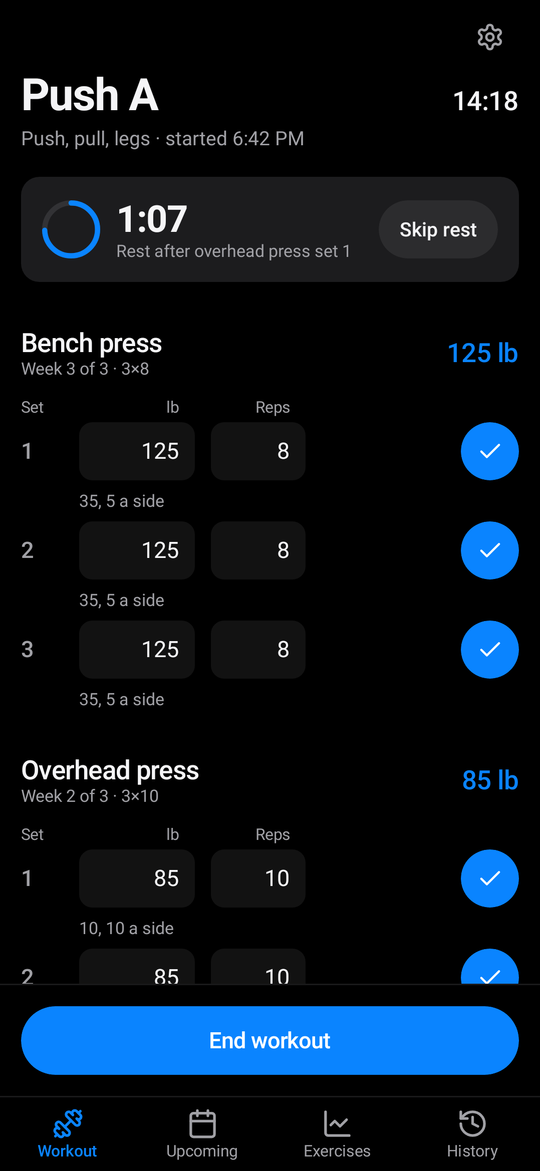
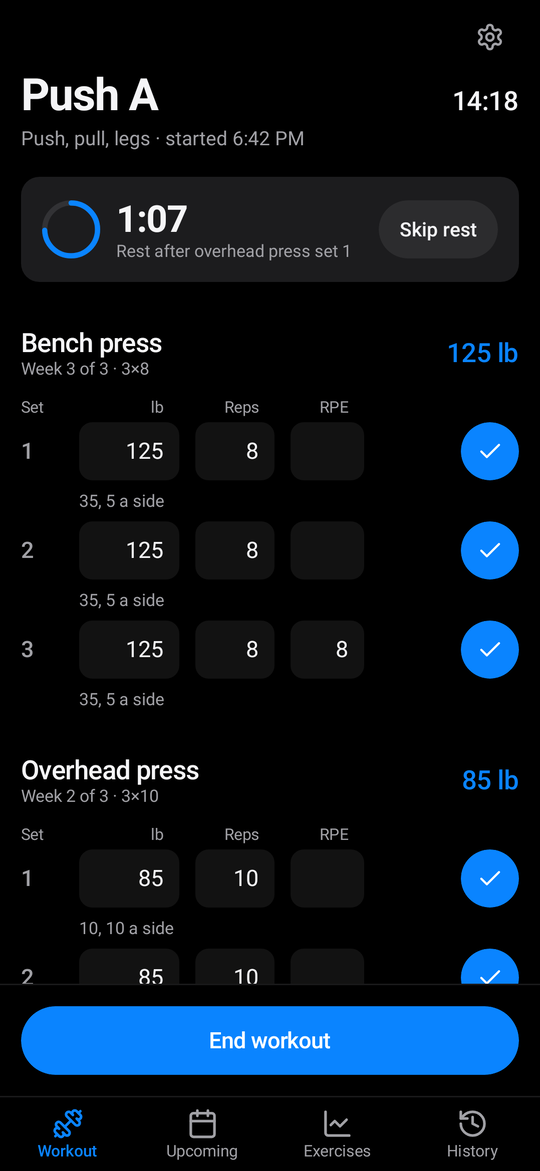
Log an optional RPE per set and export it in the synced log (#4)
The workout screen gets an RPE column beside reps. It starts empty and
accepts 1 to 10 in half steps; a logged set's RPE can be added or changed
like its weight and reps. The set line gains an optional rpe number
(docs/log-format.md), session history shows it as "@ 8.5", and the
desktop app parses it (0 when absent). RPE never affects progression.

diff --git a/app/src/main/java/dev/gzclp/tracker/ui/Screens.kt b/app/src/main/java/dev/gzclp/tracker/ui/Screens.kt
@@ -171,6 +171,7 @@ fun NumberField(
     color: Color = LocalPalette.current.fg,
     onCommit: () -> Unit = {},
     label: String? = null,
+    keyboardType: KeyboardType = KeyboardType.Number,
 ) {
     val p = LocalPalette.current
     val focus = LocalFocusManager.current
@@ -184,7 +185,7 @@ fun NumberField(
                 .then(if (label != null) Modifier.semantics { contentDescription = label } else Modifier),
             textStyle = Type.body.tabular().copy(color = color, textAlign = TextAlign.End),
             singleLine = true, cursorBrush = SolidColor(p.accent),
-            keyboardOptions = KeyboardOptions(keyboardType = KeyboardType.Number, imeAction = if (last) ImeAction.Done else ImeAction.Next),
+            keyboardOptions = KeyboardOptions(keyboardType = keyboardType, imeAction = if (last) ImeAction.Done else ImeAction.Next),
             keyboardActions = KeyboardActions(onDone = { focus.clearFocus() }),
         )
     }
@@ -234,7 +235,7 @@ fun WorkoutScreen(
     state: AppState,
     now: OffsetDateTime,
     rest: RestUi?,
-    onLog: (Exercise, Int, Int, Int) -> Unit,
+    onLog: (Exercise, Int, Int, Int, Double?) -> Unit,
     onClear: (Exercise, Int) -> Unit,
     onEditWeight: (Exercise) -> Unit,
     onSwap: (Exercise) -> Unit,
@@ -301,7 +302,7 @@ private fun ExerciseBlock(
     state: AppState,
     ex: Exercise,
     next: SetKey?,
-    onLog: (Exercise, Int, Int, Int) -> Unit,
+    onLog: (Exercise, Int, Int, Int, Double?) -> Unit,
     onClear: (Exercise, Int) -> Unit,
     onEditWeight: (Exercise) -> Unit,
     onSwap: (Exercise) -> Unit,
@@ -328,6 +329,7 @@ private fun ExerciseBlock(
         // Header labels end where the field digits end, inside the fields' horizontal padding.
         Txt("lb", Type.caption, Modifier.width(WEIGHT_COL).padding(end = Space.md), p.fg2, align = TextAlign.End)
         Txt("Reps", Type.caption, Modifier.width(REPS_COL).padding(end = Space.md), p.fg2, align = TextAlign.End)
+        Txt("RPE", Type.caption, Modifier.width(RPE_COL).padding(end = Space.md), p.fg2, align = TextAlign.End)
     }
     Column(verticalArrangement = Arrangement.spacedBy(Space.sm)) {
         val plates = LocalPlates.current
@@ -346,7 +348,7 @@ private fun ExerciseBlock(
                 current = next == key,
                 exName = ex.name,
                 plates = plates.takeIf { ex.id in Catalog.barbell },
-                onLog = { w, r -> onLog(ex, i, w, r) },
+                onLog = { w, r, rpe -> onLog(ex, i, w, r, rpe) },
                 onClear = { onClear(ex, i) },
             )
         }
@@ -354,10 +356,15 @@ private fun ExerciseBlock(
 }
 
 private val SET_COL = 32.dp
-private val WEIGHT_COL = 88.dp
-private val REPS_COL = 72.dp
+// Sized so the row fits a 360dp-wide phone with the RPE column.
+private val WEIGHT_COL = 76.dp
+private val REPS_COL = 60.dp
+private val RPE_COL = 56.dp
 
-/** One set: its own weight and reps, prefilled from the prescription, and a check that logs or clears it. */
+/** What the RPE field accepts while typing: empty, 1 to 9 with an optional .5, or 10. */
+private val RPE_INPUT = Regex("(10|[1-9](\\.5?)?)?")
+
+/** One set: its own weight and reps, prefilled from the prescription, an optional RPE, and a check that logs or clears it. */
 @Composable
 fun SetRow(
     index: Int,
@@ -368,7 +375,7 @@ fun SetRow(
     current: Boolean,
     exName: String,
     plates: Plates?,
-    onLog: (weight: Int, reps: Int) -> Unit,
+    onLog: (weight: Int, reps: Int, rpe: Double?) -> Unit,
     onClear: () -> Unit,
 ) {
     val p = LocalPalette.current
@@ -376,8 +383,9 @@ fun SetRow(
     var w by remember(logged?.weight, defaultWeight) { mutableStateOf((logged?.weight ?: defaultWeight).toString()) }
     var r by remember(logged?.actualReps) { mutableStateOf(logged?.actualReps?.toString() ?: if (amrap) "" else targetReps.toString()) }
     fun weight() = w.toIntOrNull() ?: logged?.weight ?: defaultWeight
+    var e by remember(logged?.rpe) { mutableStateOf(logged?.rpe?.let(Fmt::rpe) ?: "") }
     fun reps() = r.toIntOrNull() ?: logged?.actualReps ?: targetReps
-    val commit = { if (logged != null) onLog(weight(), reps()) }
+    val commit = { if (logged != null) onLog(weight(), reps(), e.toDoubleOrNull()) }
     val short = logged != null && logged.actualReps < targetReps
     val name = "$exName set $index"
     Row(Modifier.fillMaxWidth(), verticalAlignment = Alignment.CenterVertically, horizontalArrangement = Arrangement.spacedBy(Space.md)) {
@@ -387,12 +395,16 @@ fun SetRow(
             r, { r = it.filter(Char::isDigit).take(3) }, width = REPS_COL, placeholder = if (amrap) "$targetReps+" else "$targetReps",
             color = if (short) p.red else p.fg, onCommit = commit, label = "$name reps",
         )
+        NumberField(
+            e, { if (RPE_INPUT.matches(it)) e = it }, width = RPE_COL, placeholder = "",
+            onCommit = commit, label = "$name RPE", keyboardType = KeyboardType.Decimal,
+        )
         Spacer(Modifier.weight(1f))
         val hit = logged != null && !short
         Pressable(
             {
                 focus.clearFocus()
-                if (logged != null) onClear() else onLog(weight(), reps())
+                if (logged != null) onClear() else onLog(weight(), reps(), e.toDoubleOrNull())
             },
             Modifier.size(44.dp), CircleShape,
             fill = when {

diff --git a/app/src/test/java/dev/gzclp/tracker/ui/ScreenShots.kt b/app/src/test/java/dev/gzclp/tracker/ui/ScreenShots.kt
@@ -59,7 +59,9 @@ class ScreenShots {
             }
             val w = (ex.weight ?: 0) + if (k == 7 && i == 3 && ex.tier == Tier.CYCLE) 5 else 0
             t = t.plusSeconds(rest.getValue(ex.tier) + 25L + (k * 13 + i * 7) % 40)
-            dispatch(t) { Commands.logSet(it, ex, i, reps, w, t, rest) }
+            // RPE on last sets only, like a lifter who rates just the hard ones.
+            val rpe = if (i == ex.scheme.sets) 8.0 + (k + i) % 4 * 0.5 else null
+            dispatch(t) { Commands.logSet(it, ex, i, reps, w, t, rest, rpe) }
         }
         if (end) t.plusSeconds(90).let { e -> dispatch(e) { Commands.end(it, e, null) } }
     }
@@ -111,10 +113,10 @@ class ScreenShots {
             val p = LaptopTheme.parse(javaClass.getResource("/themes/$name.toml")!!.readText())!!
             val file = p.copy(id = "laptop-$name")
             shot(file, "03-workout-rest") {
-                TabFrame(Tab.Workout, {}) { WorkoutScreen(live, now, RestUi(67, 90, restLabel(ex[1], 1)), { _, _, _, _ -> }, { _, _ -> }, {}, {}, {}, {}, {}) }
+                TabFrame(Tab.Workout, {}) { WorkoutScreen(live, now, RestUi(67, 90, restLabel(ex[1], 1)), { _, _, _, _, _ -> }, { _, _ -> }, {}, {}, {}, {}, {}) }
             }
             shot(file, "14-workout-full", tall = true) {
-                TabFrame(Tab.Workout, {}) { WorkoutScreen(live, now, null, { _, _, _, _ -> }, { _, _ -> }, {}, {}, {}, {}, {}) }
+                TabFrame(Tab.Workout, {}) { WorkoutScreen(live, now, null, { _, _, _, _, _ -> }, { _, _ -> }, {}, {}, {}, {}, {}) }
             }
             for (tall in listOf(false, true)) shot(file, if (tall) "12-settings-full" else "12-settings", tall) {
                 SettingsScreen(
@@ -141,11 +143,11 @@ class ScreenShots {
             }
             shot(p, "02-next-workout") { TabFrame(Tab.Workout, {}) { HomeScreen(idle, {}, {}, {}) } }
             shot(p, "03-workout-rest") {
-                TabFrame(Tab.Workout, {}) { WorkoutScreen(live, now, RestUi(67, 90, restLabel(ex[1], 1)), { _, _, _, _ -> }, { _, _ -> }, {}, {}, {}, {}, {}) }
+                TabFrame(Tab.Workout, {}) { WorkoutScreen(live, now, RestUi(67, 90, restLabel(ex[1], 1)), { _, _, _, _, _ -> }, { _, _ -> }, {}, {}, {}, {}, {}) }
             }
             shot(p, "04-gzclp-next") { TabFrame(Tab.Workout, {}) { HomeScreen(gz, {}, {}, {}) } }
             shot(p, "04-gzclp-warmups", tall = true) {
-                TabFrame(Tab.Workout, {}) { WorkoutScreen(gzLive, gzNow, null, { _, _, _, _ -> }, { _, _ -> }, {}, {}, {}, {}, {}) }
+                TabFrame(Tab.Workout, {}) { WorkoutScreen(gzLive, gzNow, null, { _, _, _, _, _ -> }, { _, _ -> }, {}, {}, {}, {}, {}) }
             }
             shot(p, "05-starting-weight-sheet") {
                 Box(Modifier.fillMaxSize()) {
@@ -192,20 +194,20 @@ class ScreenShots {
             }
             shot(p, "13-days") { DaysScreen(idle, {}, {}, { _, _ -> }) }
             shot(p, "14-workout-full", tall = true) {
-                TabFrame(Tab.Workout, {}) { WorkoutScreen(live, now, null, { _, _, _, _ -> }, { _, _ -> }, {}, {}, {}, {}, {}) }
+                TabFrame(Tab.Workout, {}) { WorkoutScreen(live, now, null, { _, _, _, _, _ -> }, { _, _ -> }, {}, {}, {}, {}, {}) }
             }
             shot(p, "17-workout-swapped", tall = true) {
-                TabFrame(Tab.Workout, {}) { WorkoutScreen(swapped, now, null, { _, _, _, _ -> }, { _, _ -> }, {}, {}, {}, {}, {}) }
+                TabFrame(Tab.Workout, {}) { WorkoutScreen(swapped, now, null, { _, _, _, _, _ -> }, { _, _ -> }, {}, {}, {}, {}, {}) }
             }
             shot(p, "17-swap-sheet") {
                 Box(Modifier.fillMaxSize()) {
-                    TabFrame(Tab.Workout, {}) { WorkoutScreen(swapped, now, null, { _, _, _, _ -> }, { _, _ -> }, {}, {}, {}, {}, {}) }
+                    TabFrame(Tab.Workout, {}) { WorkoutScreen(swapped, now, null, { _, _, _, _, _ -> }, { _, _ -> }, {}, {}, {}, {}, {}) }
                     Sheet(true, {}) { SheetContent(SheetState.Swap(swapped.sessionExercises()[2], "fly"), swapped, {}, {}, {}) }
                 }
             }
             shot(p, "17-swap-back-sheet") {
                 Box(Modifier.fillMaxSize()) {
-                    TabFrame(Tab.Workout, {}) { WorkoutScreen(swapped, now, null, { _, _, _, _ -> }, { _, _ -> }, {}, {}, {}, {}, {}) }
+                    TabFrame(Tab.Workout, {}) { WorkoutScreen(swapped, now, null, { _, _, _, _, _ -> }, { _, _ -> }, {}, {}, {}, {}, {}) }
                     Sheet(true, {}) { SheetContent(SheetState.Swap(swapped.sessionExercises()[3], ""), swapped, {}, {}, {}) }
                 }
             }

diff --git a/app/src/test/java/dev/gzclp/tracker/log/LogTest.kt b/app/src/test/java/dev/gzclp/tracker/log/LogTest.kt
@@ -61,6 +61,7 @@ class LogTest {
             ProgressionEvent("squat", "cycle", "cycle_up", 180, 165, "3x8", "3x12", "s1", cycleWeek = 1, cycleBase = 165),
             SessionStart("s1", "gzclp", "A1"),
             SetLogged("s1", "squat", "t1", "5x3+", 5, 3, 7, 225, 230, true, 182, 180),
+            SetLogged("s1", "squat", "t1", "5x3+", 4, 3, 3, 225, 225, false, 150, 180, 8.5),
             SetCleared("s1", "squat", "t1", 5),
             ExerciseSwap("s1", "squat", "t1", "leg_press"),
             ExerciseSwap("s1", "squat", "t1"),
@@ -82,6 +83,8 @@ class LogTest {
         )
         val first = LogCodec.encode(Entry(1, t0, SetLogged("s1", "squat", "t1", "5x3+", 1, 3, 3, 225, 225, false)))
         assertTrue("first set omits rest fields", "rest_sec" !in first)
+        assertTrue("a set without RPE omits it", "rpe" !in first)
+        assertTrue(LogCodec.encode(Entry(2, t0, SetLogged("s1", "squat", "t1", "5x3+", 2, 3, 3, 225, 225, false, rpe = 9.0))).endsWith(",\"rpe\":9.0}"))
     }
 
     @Test fun unknownTypesAndOtherVersionsAreSkipped() {
@@ -175,6 +178,28 @@ class LogTest {
         val logged = s.state.value.active!!.sets.getValue(SetKey("bench", Tier.CYCLE, 1)).event
         assertEquals(listOf(105, 115), listOf(logged.targetWeight, logged.weight))
         assertTrue("re-logging the same values writes nothing", Commands.logSet(s.state.value, bench, 1, 12, 115, t0.plusSeconds(9), rest).isEmpty())
+    }
+
+    @Test fun rpeIsOptionalRoundedToAHalfAndLeavesProgressionAlone() {
+        val plain = store(File(tmp.root, "a.jsonl"))
+        val rated = store(File(tmp.root, "b.jsonl"))
+        for (s in listOf(plain, rated)) {
+            s.fillWeights()
+            s.dispatch(t0) { Commands.start(it, t0) }
+        }
+        val ex = rated.state.value.exercises(gzclp.days[0])[0]
+        val rpes = listOf(7.0, 8.4, 0.0, 11.0, null)
+        for (i in 1..5) {
+            plain.dispatch(t0) { Commands.logSet(it, ex, i, 3, 190, t0, rest) }
+            rated.dispatch(t0) { Commands.logSet(it, ex, i, 3, 190, t0, rest, rpes[i - 1]) }
+        }
+        val sets = rated.state.value.active!!.sets
+        assertEquals(listOf(7.0, 8.5, null, null, null), (1..5).map { sets.getValue(SetKey("squat", Tier.T1, it)).event.rpe })
+        rated.dispatch(t0) { Commands.logSet(it, ex, 1, 3, 190, t0, rest, 9.5) }
+        assertEquals("a correction can add or change RPE", 9.5, rated.state.value.active!!.sets.getValue(SetKey("squat", Tier.T1, 1)).event.rpe)
+        for (s in listOf(plain, rated)) s.dispatch(t0) { Commands.end(it, t0.plusMinutes(30), null) }
+        assertEquals(plain.state.value.gz, rated.state.value.gz)
+        assertEquals(plain.state.value.cycle, rated.state.value.cycle)
     }
 
     @Test fun upcomingProjectsTheRotationAssumingEveryTargetIsHit() {

diff --git a/app/src/main/java/dev/gzclp/tracker/log/Commands.kt b/app/src/main/java/dev/gzclp/tracker/log/Commands.kt
@@ -59,8 +59,8 @@ object Commands {
         if (state.active != null || !state.started || missingWeight(state) != null) emptyList()
         else listOf(SessionStart("s" + now.toEpochSecond(), state.programId, state.nextDay.id))
 
-    /** Logs a set, or corrects one already logged (keeping its rest fields). */
-    fun logSet(state: AppState, ex: Exercise, setIndex: Int, reps: Int, weight: Int, now: OffsetDateTime, restTargets: Map<Tier, Int>): List<Event> {
+    /** Logs a set, or corrects one already logged (keeping its rest fields). [rpe] outside 1 to 10 is dropped, others round to a half. */
+    fun logSet(state: AppState, ex: Exercise, setIndex: Int, reps: Int, weight: Int, now: OffsetDateTime, restTargets: Map<Tier, Int>, rpe: Double? = null): List<Event> {
         val a = state.active ?: return emptyList()
         val key = SetKey(ex.id, ex.tier, setIndex)
         val existing = a.sets[key]?.event
@@ -73,6 +73,7 @@ object Commands {
             amrap = scheme.amrap && setIndex == scheme.sets,
             restSec = if (existing != null) existing.restSec else prev?.let { Duration.between(it.ts, now).seconds.toInt() },
             restTargetSec = if (existing != null) existing.restTargetSec else prev?.let { restTargets[Tier.of(it.event.tier)] },
+            rpe = rpe?.let { Math.round(it * 2) / 2.0 }?.takeIf { it in 1.0..10.0 },
         )
         return if (event == existing) emptyList() else listOf(event)
     }

diff --git a/app/src/main/java/dev/gzclp/tracker/MainActivity.kt b/app/src/main/java/dev/gzclp/tracker/MainActivity.kt
@@ -225,9 +225,9 @@ private fun App(model: AppModel) {
                             onEditWeight = { open(SheetState.Weight(it, it.weight ?: 45)) },
                         ) else WorkoutScreen(
                             state, java.time.Instant.ofEpochMilli(nowMillis).atZone(java.time.ZoneId.systemDefault()).toOffsetDateTime(), model.rest(nowMillis),
-                            onLog = { ex, i, w, r ->
+                            onLog = { ex, i, w, r, rpe ->
                                 val wasLogged = state.active?.sets?.containsKey(SetKey(ex.id, ex.tier, i)) == true
-                                model.dispatch { Commands.logSet(it, ex, i, r, w, model.now(), model.restTargets) }
+                                model.dispatch { Commands.logSet(it, ex, i, r, w, model.now(), model.restTargets, rpe) }
                                 if (!wasLogged) model.startRest(ex, i)
                             },
                             onClear = { ex, i -> model.dispatch { Commands.clearSet(it, ex, i) } },

diff --git a/app/src/main/java/dev/gzclp/tracker/ui/Format.kt b/app/src/main/java/dev/gzclp/tracker/ui/Format.kt
@@ -13,6 +13,8 @@ object Fmt {
     /** Body weight, always one decimal: 182.4 lb, 181.0 lb. */
     fun lb(w: Double) = "${tenths(w)} lb"
     fun tenths(w: Double) = "%.1f".format(Locale.US, w)
+    /** RPE without a trailing .0: 8, 8.5. */
+    fun rpe(r: Double) = if (r % 1 == 0.0) "${r.toInt()}" else "$r"
     fun ratio(r: Double) = "%.2f×".format(Locale.US, r)
     /** 7:00 AM from minutes after midnight. */
     fun clockTime(minutes: Int): String = time.format(java.time.LocalTime.of(minutes / 60, minutes % 60))

diff --git a/app/src/main/java/dev/gzclp/tracker/ui/History.kt b/app/src/main/java/dev/gzclp/tracker/ui/History.kt
@@ -108,6 +108,7 @@ fun SetList(sets: List<SetLogged>) {
                 Txt("Set ${set.setIndex}" + if (set.amrap) " (AMRAP)" else "", Type.body, Modifier.weight(1f), maxLines = 1)
                 Txt(Fmt.lb(set.weight) + " × ", Type.body.tabular(), color = p.fg2)
                 Txt("${set.actualReps}", Type.body.tabular(), color = if (set.actualReps < set.targetReps) p.red else p.fg)
+                set.rpe?.let { Txt(" @ ${Fmt.rpe(it)}", Type.body.tabular(), color = p.fg2) }
             }
         }
     }

diff --git a/app/src/main/java/dev/gzclp/tracker/log/Events.kt b/app/src/main/java/dev/gzclp/tracker/log/Events.kt
@@ -65,6 +65,8 @@ data class SetLogged(
     val amrap: Boolean,
     val restSec: Int? = null,
     val restTargetSec: Int? = null,
+    /** Rate of perceived exertion, 1 to 10 in half steps; null when not given. Never affects progression. */
+    val rpe: Double? = null,
 ) : Event
 
 /** In [sessionId], the slot ([exercise], [tier]) is done as [substitute]; a null [substitute] puts the original back. */

diff --git a/desktop/src/log.cpp b/desktop/src/log.cpp
@@ -69,6 +69,7 @@ Log parseLog(const QByteArray &bytes) {
             s.amrap = o["amrap"].toBool();
             s.rest = o["rest_sec"].toInt(-1);
             s.restTarget = o["rest_target_sec"].toInt(-1);
+            s.rpe = o["rpe"].toDouble();
             // A correction replaces the values but the set keeps its place in the session.
             const auto previous = sets.constFind(key);
             s.ts = previous != sets.cend() ? previous->ts : parseTime(o["ts"]);

diff --git a/desktop/tests/gzclp-desk_tests.cpp b/desktop/tests/gzclp-desk_tests.cpp
@@ -39,6 +39,8 @@ private slots:
     void docExampleResolves() {
         const Log log = parseLog(docExample());
         QCOMPARE(log.sets.size(), 3);
+        QCOMPARE(log.sets[0].rpe, 0.0);  // absent
+        QCOMPARE(log.sets[1].rpe, 8.5);
         QCOMPARE(log.name("squat"), QString("Squat"));
         QCOMPARE(log.name("leg_curl"), QString("Leg curl"));
         QCOMPARE(log.bodyWeight.size(), 1);  // the Nov 20 weigh-in was cleared

diff --git a/desktop/src/log.h b/desktop/src/log.h
@@ -15,6 +15,7 @@ struct LoggedSet {
     int index = 0, reps = 0, weight = 0;
     bool amrap = false;
     int rest = -1, restTarget = -1;  // -1 when absent (first set of a session)
+    double rpe = 0;                  // 0 when absent
     QDateTime ts;                    // when the set was first logged
     qint64 order = 0;                // seq of its first line, for the previous-set lookup
 };

diff --git a/docs/log-format.md b/docs/log-format.md
@@ -9,6 +9,8 @@ The `body_weight` and `body_weight_clear` types were added within version 2. A r
 
 The `exercise_swap` type was added within version 2 the same way. A reader that skips it still attributes every set to the exercise actually done, because `set` lines always name that exercise.
 
+The optional `rpe` field on `set` was added within version 2. A reader that predates it ignores it as an unknown field.
+
 ## File
 
 - Name: `gzclp-log.jsonl`, in the folder picked in the app's Settings (shared with Syncthing).
@@ -170,12 +172,13 @@ One logged set. Written when the user taps the set done, and again when they cor
 | `amrap` | bool | True on the last set of a `+` stage. |
 | `rest_sec` | int, optional | Seconds since the previous set logged in this session. Absent on the first set. |
 | `rest_target_sec` | int, optional | The rest the timer gave after the previous set (by that set's tier; defaults 180 T1, 120 T2, 60 T3, 90 cycle, user-editable). Absent on the first set. |
+| `rpe` | number, optional | Rate of perceived exertion the user gave the set, 1 to 10 in half steps, always written with one decimal: `8.0`, `8.5`. Absent when not given. It never affects progression. |
 
 The line's `ts` is when the set was logged.
 
 Only working sets are logged. The warm-up sets the app shows before GZCLP T1 lifts are never written to the log, so every `set` line counts toward progression and the metrics below.
 
-**Set identity.** A set is identified by (`session_id`, `exercise`, `tier`, `set_index`). If the user corrects a set, a new `set` line with the same identity is written. The newest one wins. A correction keeps the original `rest_sec` and `rest_target_sec`.
+**Set identity.** A set is identified by (`session_id`, `exercise`, `tier`, `set_index`). If the user corrects a set, a new `set` line with the same identity is written. The newest one wins. A correction keeps the original `rest_sec` and `rest_target_sec`. A correction can add, change, or remove `rpe`; the newest line's value (or its absence) is the set's RPE.
 
 ### `exercise_swap`
 
@@ -269,7 +272,7 @@ First resolve sets: newest `set` per identity wins, drop cleared sets, drop sets
 {"v":2,"seq":37,"ts":"2026-11-02T18:40:00-08:00","type":"progression","exercise":"lat_pulldown","tier":"t3","kind":"initial","to_weight":100,"to_stage":"3x15+"}
 {"v":2,"seq":38,"ts":"2026-11-02T18:42:05-08:00","type":"session_start","session_id":"s1794191725","program":"gzclp","day":"A1"}
 {"v":2,"seq":39,"ts":"2026-11-02T18:45:10-08:00","type":"set","session_id":"s1794191725","exercise":"squat","tier":"t1","stage":"5x3+","set_index":1,"target_reps":3,"actual_reps":3,"target_weight":210,"weight":210,"amrap":false}
-{"v":2,"seq":40,"ts":"2026-11-02T18:48:20-08:00","type":"set","session_id":"s1794191725","exercise":"squat","tier":"t1","stage":"5x3+","set_index":2,"target_reps":3,"actual_reps":3,"target_weight":210,"weight":215,"amrap":false,"rest_sec":190,"rest_target_sec":180}
+{"v":2,"seq":40,"ts":"2026-11-02T18:48:20-08:00","type":"set","session_id":"s1794191725","exercise":"squat","tier":"t1","stage":"5x3+","set_index":2,"target_reps":3,"actual_reps":3,"target_weight":210,"weight":215,"amrap":false,"rest_sec":190,"rest_target_sec":180,"rpe":8.5}
 {"v":2,"seq":41,"ts":"2026-11-02T19:00:00-08:00","type":"exercise_swap","session_id":"s1794191725","exercise":"lat_pulldown","tier":"t3","substitute":"seated_cable_row"}
 {"v":2,"seq":42,"ts":"2026-11-02T19:03:10-08:00","type":"set","session_id":"s1794191725","exercise":"seated_cable_row","tier":"t3","stage":"3x15+","set_index":1,"target_reps":15,"actual_reps":15,"target_weight":0,"weight":100,"amrap":false,"rest_sec":190,"rest_target_sec":180}
 {"v":2,"seq":57,"ts":"2026-11-02T19:31:40-08:00","type":"progression","exercise":"squat","tier":"t1","kind":"weight_increase","from_weight":210,"to_weight":220,"from_stage":"5x3+","to_stage":"5x3+","session_id":"s1794191725"}
